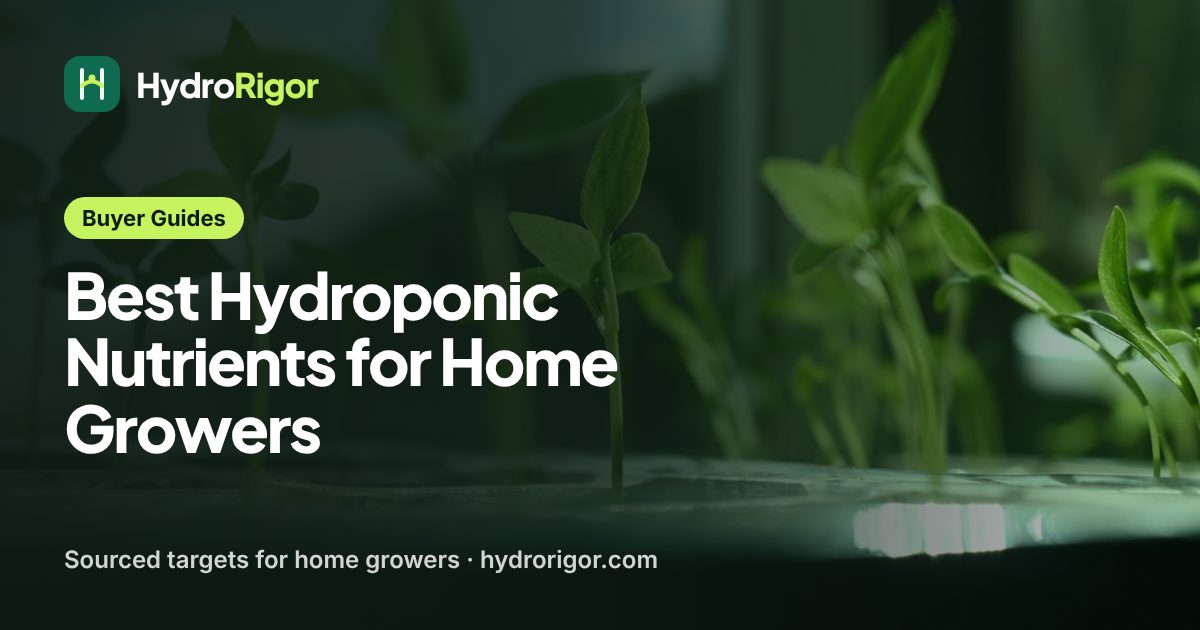
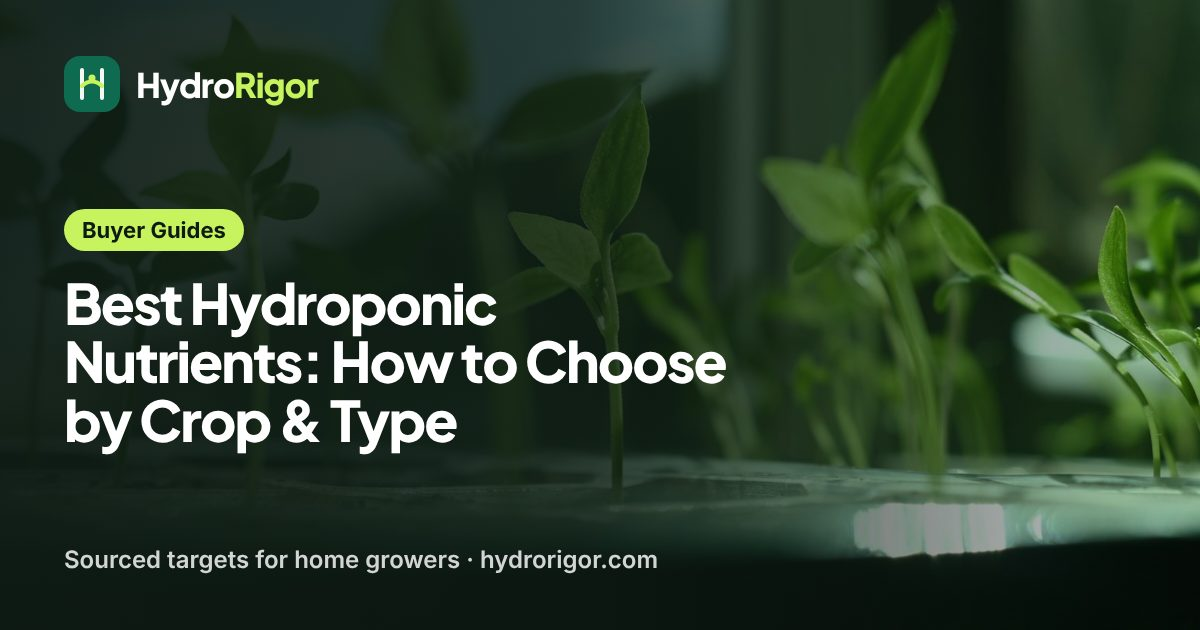
Rebuild best hydroponic nutrients: types, completeness, strength, water
Rebuilds /best/hydroponic-nutrients-for-home-growers/ as "Best Hydroponic
Nutrients: How to Choose by Crop & Type": direct answer, KeyTargets,
quick-answer table, five nutrient types, label checks, strength vs yield
(new source: University of Nevada, Reno 2014), source-water limits,
organic yields, steps, troubleshooting and FAQ; three new SVG diagrams.
No products ranked. Ticks the queue item and updates the handoff.

Claude-Session: https://claude.ai/code/session_011zSWQuksnLRScVAgQma7kD

Changed region(s): [[0.0308, 0.3016, 0.6167, 0.7238]]

diff --git a/src/data/editorial-sources/m06.ts b/src/data/editorial-sources/m06.ts
@@ -284,9 +284,9 @@ export const m06EditorialSources = [
     title: 'Hydroponics Systems: Nutrient Solution Programs and Recipes',
     publisher: 'Penn State Extension',
     url: 'https://extension.psu.edu/hydroponics-systems-nutrient-solution-programs-and-recipes',
-    accessedDate: '2026-11-15',
+    accessedDate: '2026-11-17',
     sourceType: 'university-extension',
-    locator: 'Updated March 18, 2024. Fertilizer programs: 4-18-38 tomato base supplemented with calcium nitrate and magnesium sulfate by variety and stage. Nutrient Solution Recipes: Modified Sonneveld solution for herbs N 150, P 31, K 210, Ca 90, Mg 24 ppm; subtract what is in the water (30 ppm K in water, 210 target: add 180 ppm); a high precision scale is required for micronutrients. Complete Soluble Fertilizer Approach: lettuce might be 100 to 150 ppm N; magnesium and calcium may not be included. How to Choose Fertilizers, solubility table (g/100 mL cold water, citing Resh): calcium nitrate 121.2, potassium nitrate 13.3. Nutrient Solution Concentration and Fertilizer Compatibility: common stock concentrations 50, 100 or 200 times normal strength; two stock tanks keep calcium apart from phosphates and sulfates (calcium nitrate in one tank, 4-18-38 plus magnesium sulfate in the other) to avoid precipitates that clog drip lines. Keeping Nutrients in Solution: motor-driven propeller for large tanks, circulating pump, or air pump for small tanks',
+    locator: 'Updated March 18, 2024. Fertilizer programs: 4-18-38 tomato base supplemented with calcium nitrate and magnesium sulfate by variety and stage. Nutrient Solution Recipes: Modified Sonneveld solution for herbs N 150, P 31, K 210, Ca 90, Mg 24 ppm; subtract what is in the water (30 ppm K in water, 210 target: add 180 ppm); a high precision scale is required for micronutrients. Complete Soluble Fertilizer Approach: lettuce might be 100 to 150 ppm N; magnesium and calcium may not be included. How to Choose Fertilizers, solubility table (g/100 mL cold water, citing Resh): calcium nitrate 121.2, potassium nitrate 13.3. Nutrient Solution Concentration and Fertilizer Compatibility: common stock concentrations 50, 100 or 200 times normal strength; two stock tanks keep calcium apart from phosphates and sulfates (calcium nitrate in one tank, 4-18-38 plus magnesium sulfate in the other) to avoid precipitates that clog drip lines. Keeping Nutrients in Solution: motor-driven propeller for large tanks, circulating pump, or air pump for small tanks. Re-read 2026-11-17: use greenhouse-grade fertilizers (higher purity and greater solubility than standard grade); some growers use a complete soluble fertilizer including micronutrients; nitrate holds vegetative growth back compared with ammonium, while ammonium can cause excessive vegetative growth, especially in poor light, and ammonium toxicity; chelates keep metals available when pH changes; iron, manganese and zinc are easily made unavailable',
   },
   {
     id: 'psu-plant-nutrition',
@@ -728,6 +728,15 @@ export const m06EditorialSources = [
     accessedDate: '2026-11-16',
     sourceType: 'university-extension',
     locator: 'UC Master Gardener Program of Orange County project (2026 Search for Excellence). "No Soil, No Problem!": Kratky method, plants grow without pumps or electricity; repurposed containers (nut jars, milk jugs, yogurt containers); basic principles rather than specific products; mostly lettuce and leafy greens. "From Learning to Action": starter kits (container, net cup, growing medium, seeds, Kratky instructions) offered during classes and for $6 at outreach events, covering only the price of materials; 75% of participants set up their starter kit right away and 50% went on to build or purchase additional systems. No light, harvest-time or maintenance figures (read 2026-11-16)',
+  },
+  {
+    id: 'unr-flora-leafy-greens-2014',
+    title: 'Investigating the effects of hydroponic media on quality of greenhouse grown leafy greens',
+    publisher: 'International Journal of Agricultural Extension 2(3): 227–234 (S. D. Ferguson, R. P. Saliga III and S. T. Omaye, University of Nevada, Reno), 2014',
+    url: 'https://naes.agnt.unr.edu/PMS/Pubs/309_2015_01.pdf',
+    accessedDate: '2026-11-17',
+    sourceType: 'university-research',
+    locator: 'Methods p. 228: float culture, three continuous-flow systems; Rex butterhead and Nevada Summer Crisp lettuce and bok choy; pH buffered to 6.0–6.4, water at least 18 °C; tap water about 100 ppm TDS. Cycle 1: General Hydroponics Flora series 1:1:1 at 300, 400 and 500 ppm TDS, no significant difference in any crop (Figure 4, p. 230). Cycle 2: Flora at 400 ppm (low) versus 1,200 ppm, described as the manufacturer\'s commercial rate (high), versus a self-made organic solution of potash, rock phosphate and fish meal; significant difference in every crop (Figure 5, pp. 230–231): mean wet weight high/organic/low bok choy 619.1/239.8/384.7 g, butterhead 150.9/73.8/131.3 g, Nevada 197.1/96.2/133.1 g; organic "did not yield as much as even the low level conventional solution"; rock phosphate was insoluble and phosphate mineralization low; high nutrient cost about 4 times the low level. EC not reported (read 2026-11-17)',
   },
 ] as const satisfies readonly M06EditorialSource[];
 

diff --git a/src/data/m06-content.ts b/src/data/m06-content.ts
@@ -33,7 +33,7 @@ const items = [
   [13, 'articles', 'nutrients', "Hydroponic Nutrients: pH, EC & Mixing Guide for Beginners", 'hydroponic-nutrients', 'informational', 'hydroponic nutrients', 'VERIFIED_2026-09-12', 3600, 22, ['psu-plant-nutrition', 'mu-nutrient-solutions', 'osu-ph-ec-guide', 'ua-strawberry-irrigation'], ['/tools/ph-ec-targets/', '/tools/nutrient-mixing-calculator/']],
   [14, 'articles', 'nutrients', 'Hydroponic Nutrient Solution: ppm, EC, pH & When to Change', 'hydroponic-nutrient-solution', 'transactional research', 'hydroponic nutrients solution', 'VERIFIED_2026-09-12', 720, 25, ['mu-nutrient-solutions', 'psu-nutrient-programs', 'psu-plant-nutrition', 'osu-ph-ec-guide', 'ifas-hydroponic-tomato-formulation', 'ohio-state-tomato-nutrient-solution', 'tennessee-fruiting-crops', 'uky-hydroponic-lettuce', 'uky-monitoring-ph-ec', 'ifas-lettuce-small-systems', 'vt-system-crop-comparisons', 'sato-modified-nft-2007', 'gomez-basil-small-scale-2020', 'ua-strawberry-irrigation', 'msstate-tomato-ph', 'msu-calibrate-ph-ec'], ['/tools/ph-ec-targets/', '/tools/nutrient-mixing-calculator/']],
   [15, 'articles', 'nutrients', 'Organic Hydroponic Nutrients: Yields, Problems & Fixes', 'organic-hydroponic-nutrients', 'transactional research', 'hydroponic nutrients organic', 'VERIFIED_2026-09-12', 590, 20, ['usda-organic-certification', 'psu-organic-nutrient-study', 'liu-organic-nft-lettuce-2025', 'wortman-vertical-strawberry-2016', 'purdue-lettuce-ec-ho309', 'mu-nutrient-solutions'], []],
-  [16, 'articles', 'best', 'Best Hydroponic Nutrients for Home Growers', 'hydroponic-nutrients-for-home-growers', 'commercial research', 'best hydroponic nutrients', 'METRIC_NOT_REVERIFIED', undefined, undefined, ['psu-nutrient-programs', 'mu-nutrient-solutions', 'psu-plant-nutrition'], ['/tools/nutrient-mixing-calculator/']],
+  [16, 'articles', 'best', 'Best Hydroponic Nutrients: How to Choose by Crop & Type', 'hydroponic-nutrients-for-home-growers', 'commercial research', 'best hydroponic nutrients', 'METRIC_NOT_REVERIFIED', undefined, undefined, ['psu-nutrient-programs', 'psu-plant-nutrition', 'mu-nutrient-solutions', 'osu-ph-ec-guide', 'purdue-fertilizer-mixing-tips', 'unr-flora-leafy-greens-2014', 'tennessee-fruiting-crops', 'uky-hydroponic-lettuce', 'purdue-lettuce-ec-ho309', 'ohio-state-tomato-nutrient-solution', 'msstate-fluid-fertilizers', 'masterblend-mixing-instructions', 'gh-floraseries-program', 'psu-organic-nutrient-study', 'liu-organic-nft-lettuce-2025', 'unl-lunchbox-hydroponics', 'msu-calibrate-ph-ec'], ['/tools/nutrient-mixing-calculator/', '/tools/ph-ec-targets/']],
   [17, 'articles', 'nutrients', 'Powder vs Liquid Hydroponic Nutrients: Mixing, Storage & EC', 'powder-vs-liquid-hydroponic-nutrients', 'commercial research', 'hydroponic nutrients powder', 'METRIC_NOT_REVERIFIED', undefined, undefined, ['msstate-fluid-fertilizers', 'purdue-fertilizer-mixing-tips', 'psu-nutrient-programs', 'mu-nutrient-solutions', 'ohio-state-tomato-nutrient-solution', 'masterblend-mixing-instructions', 'gh-floraseries-program', 'osu-ph-ec-guide', 'ifas-lettuce-small-systems', 'tennessee-fruiting-crops', 'msu-calibrate-ph-ec'], ['/tools/nutrient-mixing-calculator/']],
   [18, 'articles', 'nutrients', 'Hydroponic Nutrients for Vegetables: EC & pH by Crop', 'hydroponic-nutrients-for-vegetables', 'transactional research', 'hydroponic nutrients vegetables', 'METRIC_NOT_REVERIFIED', undefined, undefined, ['osu-ph-ec-guide', 'tennessee-fruiting-crops', 'mu-nutrient-solutions', 'psu-plant-nutrition', 'psu-nutrient-programs', 'uky-hydroponic-lettuce', 'ifas-lettuce-small-systems', 'ua-strawberry-irrigation', 'vt-system-crop-comparisons'], ['/tools/ph-ec-targets/', '/tools/nutrient-mixing-calculator/']],
   [19, 'articles', 'nutrients', 'Hydroponic Nutrients for Tomatoes: EC, pH & Feeding by Stage', 'hydroponic-nutrients-for-tomatoes', 'informational', 'hydroponic tomatoes nutrient solution', 'VERIFIED_2026-09-12', 170, 18, ['ifas-hydroponic-tomato-formulation', 'tennessee-fruiting-crops', 'ohio-state-tomato-nutrient-solution', 'psu-nutrient-programs', 'osu-ph-ec-guide', 'uky-monitoring-ph-ec', 'msstate-tomato-ph', 'msstate-tomato-fertilizer', 'msstate-blossom-end-rot', 'ifas-volusia-dwc-bucket'], ['/tools/ph-ec-targets/', '/tools/nutrient-mixing-calculator/']],

diff --git a/.agent/state/CURRENT_HANDOFF.md b/.agent/state/CURRENT_HANDOFF.md
@@ -1,6 +1,6 @@
 # Current Handoff
 
-Updated: 2026-11-16
+Updated: 2026-11-17
 
 ## State
 
@@ -89,6 +89,7 @@ Updated: 2026-11-16
 Guides published by automated runs under `HydroRigor Editorial`. When Najeeb has read one
 and approves, switch its byline to `Najeeb`.
 
+- `/best/hydroponic-nutrients-for-home-growers/` — "Best Hydroponic Nutrients: How to Choose by Crop & Type" (rebuild, 2026-11-17; Pinterest row `docs/marketing/pinterest/pins-best-nutrients-2026-12-08.csv`, upload by Dec 8). Direct answer (complete formula, EC by crop, pH 5.5–6.5; one-part for greens, multi-part for fruiting crops), KeyTargets card, quick-answer table, five nutrient types, what "complete" means (Ca, Mg, chelated iron, greenhouse grade, nitrate versus ammonium), strength versus yield, source-water limits, powder or liquid, organic yields, eight steps, troubleshooting and FAQ; three new diagrams (type decision card; label checklist; strength and yield chart). New source: Ferguson, Saliga and Omaye 2014 (University of Nevada, Reno; Int. J. Agr. Ext.), Flora series at 400 versus 1,200 ppm versus organic, read 2026-11-17. Penn State programs page re-read 2026-11-17 (greenhouse grade, nitrate/ammonium, chelates; from a fetch summary, not verbatim text). The Missouri G6984 page could not be opened in this run; its figures come from the registered locator. No products ranked, no prices; the page says no head-to-head brand trial was found. Photo kept (seedlings on a floating raft).
 - `/nutrients-water/hydroponic-nutrients-for-vegetables/` — "Hydroponic Nutrients for Vegetables: EC & pH by Crop" (rebuild, 2026-11-16; Pinterest row `docs/marketing/pinterest/pins-nutrients-vegetables-2026-12-06.csv`, upload by Dec 6). Direct answer (complete nutrient, EC by crop, pH 6.0 sits inside every Oklahoma State crop range), crop EC/pH table, leafy versus fruiting crops, what "complete" means, a which-crops-can-share-a-tank table (overlaps worked out from HLA-6722 Table 2, labelled as HydroRigor's), feeding by stage (Tennessee, Kentucky), source-water limits (Missouri), mixing and management steps, troubleshooting, source conflicts (pepper, strawberry, lettuce pH, tomato EC) and FAQ; two new charts (EC by crop; pH by crop). Written from registered sources only: web fetches were not approved in this run, so no new sources were added; kale and Swiss chard have no figure because no source gives one.
 - `/nutrients-water/powder-vs-liquid-hydroponic-nutrients/` — "Powder vs Liquid Hydroponic Nutrients: Mixing, Storage & EC" (rebuild, 2026-11-16; Pinterest row `docs/marketing/pinterest/pins-powder-vs-liquid-2026-12-05.csv`, upload by Dec 5). Direct answer (same plant response at the same nutrient rate, Mississippi State P1466; liquid for one small reservoir, powder for 5 gal+ with a 0.1 g scale), KeyTargets card, quick-answer table, format comparison table, why liquids hold less nutrient (potash about 11% in solution; Penn State solubility), weighing-error table and chart (labelled arithmetic from Masterblend's 1.5 g/gal Epsom rate), dissolving (Purdue warm water versus Oklahoma State/UF/IFAS root-zone temperature shown as a conflict), separate parts for both formats, making your own two-tank stocks (Penn State, Purdue, Ohio State), ten steps, troubleshooting and FAQ; two new diagrams (decision card; scale error). New sources read 2026-11-16: Mississippi State Extension P1466 Fluid Fertilizers (a field-crop publication; the page says so) and Purdue Vegetable Crops Hotline mixing tips (Langenhoven, 2017). The General Hydroponics, Masterblend, Kentucky jar-test and Yara pages could not be opened in this run (fetch permission timed out), so liquid label rates in mL, guaranteed analyses and dry-storage humidity figures are not on the page; no shelf life or cost-per-gallon figure is given because no source states one. Photo kept (water pouring into a glass).
 - `/nutrients-water/how-to-mix-hydroponic-nutrients/` — "How to Mix Hydroponic Nutrients: Order, Rates & EC Check" (rebuild, 2026-11-15; Pinterest row `docs/marketing/pinterest/pins-how-to-mix-2026-12-04.csv`, upload by Dec 4). Direct answer (water first, one part at a time, calcium last or in its own tank, EC then pH), quick-answer table, six-step order, three ways to make a solution (Penn State), Masterblend per-gallon rate table with liters and labelled 5-gallon arithmetic, two-tank 100X stock example (Ohio State HYG-1437 Table 4), source-water limits, Oklahoma State EC and pH correction steps, ten-step batch, troubleshooting and FAQ; three new diagrams (mixing order; two stock tanks; EC by crop). Sources re-read 2026-11-15 and locators extended: Penn State programs page (verbatim check), Oklahoma State HLA-6722, Ohio State HYG-1437, Masterblend instructions, General Hydroponics FloraSeries mixing notes (order only; its stage feed charts were not used). Conflicts shown: lettuce pH (Oklahoma State 6.0–7.0 vs Kentucky 5.5–6.0), lettuce EC (UF/IFAS 1.2–1.8 vs Purdue 1.3), tomato EC (Oklahoma State 2.0–4.0 vs Tennessee 2.0–3.0), solution temperature, replacement interval. No ppm-scale conversion is given because no registered source states one. Photo kept (measuring beaker).

diff --git a/.agent/state/CURRENT_MILESTONE.md b/.agent/state/CURRENT_MILESTONE.md
@@ -95,7 +95,7 @@ impressions in 28 days).
         (rebuilt 2026-11-16, "Powder vs Liquid Hydroponic Nutrients: Mixing, Storage & EC"; "hydroponic nutrients powder" 170 / 19), ~~`/nutrients-water/hydroponic-nutrients-for-vegetables/`~~
         (rebuilt 2026-11-16, "Hydroponic Nutrients for Vegetables: EC & pH by Crop"; "hydroponic nutrients vegetables" 140 / 15), ~~`/best/indoor-hydroponic-system-kits/`~~
         (rebuilt 2026-11-16, "Indoor Hydroponic System Kits: What's Included & What to Add"),
-        `/best/hydroponic-nutrients-for-home-growers/` ("best hydroponic nutrients" 260 / 20),
+        ~~`/best/hydroponic-nutrients-for-home-growers/`~~ (rebuilt 2026-11-17, "Best Hydroponic Nutrients: How to Choose by Crop & Type"; "best hydroponic nutrients" 260 / 20),
         `/reviews/masterblend-hydroponic-nutrients/` ("masterblend hydroponic nutrients" 210 / 22),
         `/reviews/general-hydroponics-nutrients/` (170 / 23).
 23. [ ] New guides from the 100-article plan (IDs 26–55), in plan order, skipping IDs already done.
